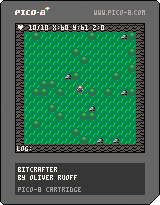
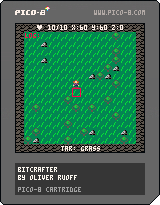
added player target

diff --git a/README.md b/README.md
@@ -27,6 +27,9 @@ BitCrafter is a Pico-8 game which is about exploring, surviving and building. (A
 
 ## Changelog
 
+### 2023-02-05
+ - Added player target
+
 ### 2023-02-04
 - Switched to dicts for more oo-like coding
 - Added collision detection
